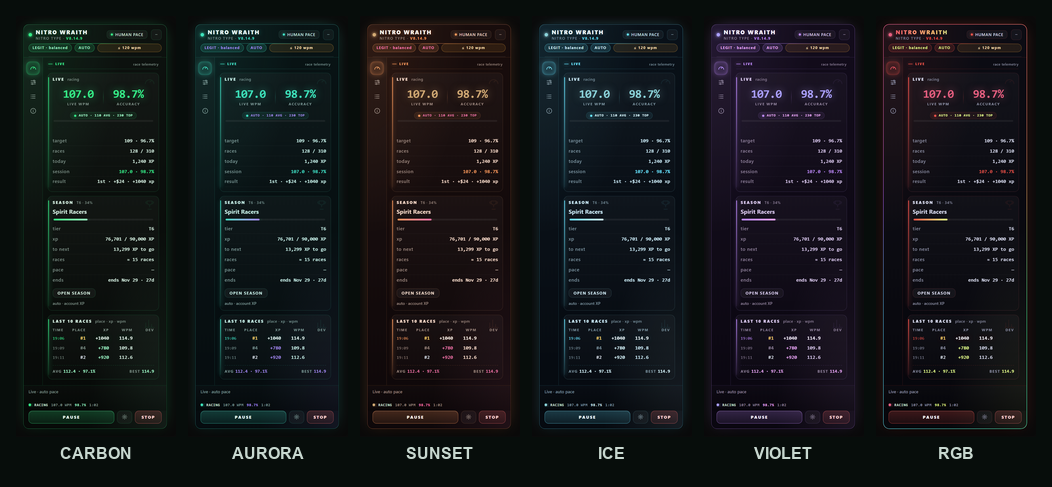
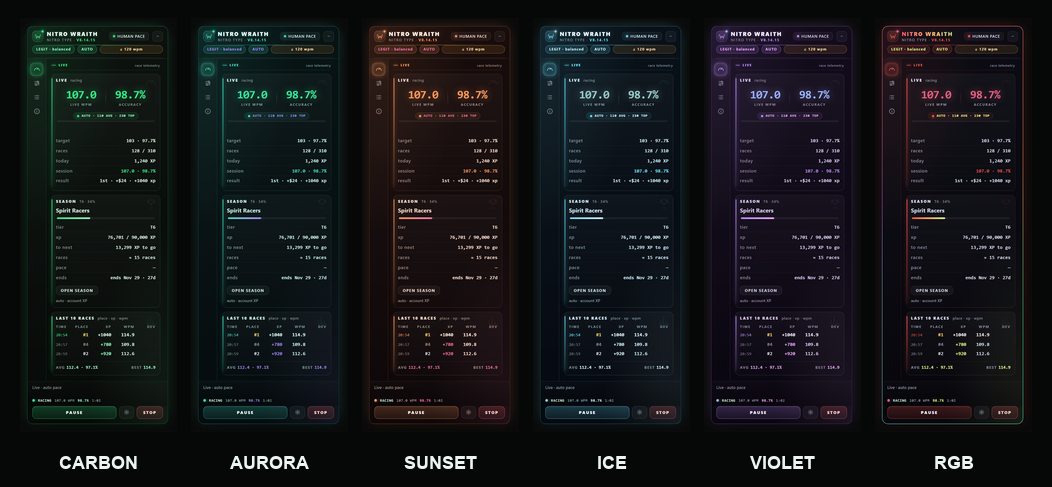
feat: give NITRO WRAITH its own mark
Use the existing hero W as an inline SVG in the live panel and the garage so the brand is recognisable without another network asset. Keep the state LED readable in the corner, replace the third-party userscript icon, and document that account tokens stay on Nitro Type.

diff --git a/nitro-wraith.user.js b/nitro-wraith.user.js
@@ -1,7 +1,7 @@
 // ==UserScript==
 // @name         NITRO WRAITH
 // @namespace    nitro.wraith
-// @version      8.14.14
+// @version      8.14.15
 // @updateURL    https://gist.githubusercontent.com/ezurinho/88f8b25546f8bb0ea588291bab8ffa58/raw/nitro-wraith.meta.js
 // @downloadURL  https://gist.githubusercontent.com/ezurinho/88f8b25546f8bb0ea588291bab8ffa58/raw/nitro-wraith.user.js
 // @description  Human-paced Nitro Type racer for one account: auto-calibrated to the account's own WPM average and top speed under a hard 120 WPM ceiling, automatic race loop with breaks and session limits, Mystery Box, stickers, CAPTCHA/session recovery, a live four-view panel and a safety guard. Always AUTO; no fast mode.
@@ -9,7 +9,7 @@
 // @supportURL   https://github.com/ezurinho/nitro-wraith/issues
 // @author       NITRO WRAITH
 // @match        https://www.nitrotype.com/*
-// @icon         https://cdn2.steamgriddb.com/icon/2b16a44bb65751bb0ebe5d8b42644bc4/32/512x512.png
+// @icon         https://raw.githubusercontent.com/ezurinho/nitro-wraith/main/assets/logo.svg
 // @license      MIT
 // @grant        none
 // @run-at       document-idle
@@ -725,7 +725,7 @@ All of this only aims at believable statistics. It is your call and your risk.
 
   };
 
-  const VERSION = '8.14.14';
+  const VERSION = '8.14.15';
 
   // Aviso de version: el meta del Gist es publico aunque el Gist sea secreto,
   // asi que se puede leer sin token. Se guarda el ultimo resultado y se
@@ -889,6 +889,7 @@ All of this only aims at believable statistics. It is your call and your risk.
       const response = await fetch(UPDATE_META_URL, {
         cache: 'no-store',
         credentials: 'omit',
+        referrerPolicy: 'no-referrer',
         signal: controller ? controller.signal : undefined,
       });
       if (!response || !response.ok) {
@@ -8828,6 +8829,13 @@ All of this only aims at believable statistics. It is your call and your risk.
         }
         .head:active { cursor: grabbing; }
         .dot { flex: none; width: 8px; height: 8px; border-radius: 50%; background: var(--dim-2); box-shadow: 0 0 0 3px color-mix(in srgb, var(--dim-2) 14%, transparent); transition: background .25s ease, box-shadow .25s ease; }
+        /* La marca: la W del hero, en un cuadrado de cristal. El punto de estado
+           sigue dentro, asi que no se pierde el LED al cambiar el icono. */
+        .mark { position: relative; flex: none; display: grid; place-items: center; width: 25px; height: 25px; border-radius: 8px; color: var(--acc); background: linear-gradient(145deg, color-mix(in srgb, var(--acc) 13%, rgba(255, 255, 255, .04)), rgba(255, 255, 255, .015)); border: 1px solid var(--line-strong); box-shadow: inset 0 1px 0 rgba(255, 255, 255, .08), 0 0 16px -9px var(--acc); }
+        .mark svg { width: 18px; height: 18px; display: block; filter: drop-shadow(0 0 5px color-mix(in srgb, var(--acc) 55%, transparent)); }
+        .mark .dot { position: absolute; right: -2px; top: -2px; width: 5px; height: 5px; box-shadow: 0 0 0 2px var(--bg-hi), 0 0 7px color-mix(in srgb, var(--acc) 70%, transparent); }
+        .panel[data-state="running"] .mark .dot { animation: nt-pulse 1.7s ease-in-out infinite; }
+        .panel[data-collapsed="true"] .mark { width: 23px; height: 23px; border-radius: 7px; }
         .panel[data-state="running"] .dot { background: var(--acc); box-shadow: 0 0 0 3px var(--acc-dim), 0 0 12px color-mix(in srgb, var(--acc) 80%, transparent); animation: nt-pulse 1.7s ease-in-out infinite; }
         .panel[data-state="paused"] .dot { background: var(--warn); box-shadow: 0 0 0 3px color-mix(in srgb, var(--warn) 16%, transparent), 0 0 12px color-mix(in srgb, var(--warn) 60%, transparent); }
         .panel[data-state="break"] .dot { background: var(--info); box-shadow: 0 0 0 3px color-mix(in srgb, var(--info) 16%, transparent), 0 0 12px color-mix(in srgb, var(--info) 60%, transparent); }
@@ -9274,7 +9282,10 @@ All of this only aims at believable statistics. It is your call and your risk.
       </style>
       <div class="panel" role="region" aria-label="Nitro Wraith control panel" data-state="waiting" data-mode="auto" data-pace="legit" data-cfg="0" data-collapsed="false" data-tab="stats" data-fresh="1" data-theme="carbon">
         <div class="head">
-          <span class="dot"></span>
+          <span class="mark" aria-hidden="true">
+            <svg viewBox="0 0 32 32" fill="none" stroke="currentColor" stroke-width="2.4" stroke-linecap="round" stroke-linejoin="round"><circle cx="16" cy="16" r="14" stroke-opacity=".22"/><path d="M6.5 9.5 11 23l5-9 5 9 4.5-13.5"/></svg>
+            <i class="dot"></i>
+          </span>
           <span class="brand">
             <b class="title" data-field="title">NITRO WRAITH</b>
             <span class="sub">nitro type · <b data-field="ver">v7.0.0</b></span>
@@ -13809,6 +13820,15 @@ All of this only aims at believable statistics. It is your call and your risk.
           .dot { flex: none; width: 8px; height: 8px; border-radius: 50%;
                  background: var(--dim-2); box-shadow: 0 0 0 3px color-mix(in srgb, var(--dim-2) 14%, transparent);
                  transition: background .25s ease, box-shadow .25s ease; }
+          .mark { position: relative; flex: none; display: grid; place-items: center;
+                  width: 23px; height: 23px; border-radius: 7px; color: var(--acc);
+                  background: linear-gradient(145deg, color-mix(in srgb, var(--acc) 13%, rgba(255, 255, 255, .04)), rgba(255, 255, 255, .015));
+                  border: 1px solid var(--line-strong);
+                  box-shadow: inset 0 1px 0 rgba(255, 255, 255, .08), 0 0 14px -8px var(--acc); }
+          .mark svg { width: 16px; height: 16px; display: block;
+                      filter: drop-shadow(0 0 5px color-mix(in srgb, var(--acc) 55%, transparent)); }
+          .mark .dot { position: absolute; right: -2px; top: -2px; width: 5px; height: 5px;
+                       box-shadow: 0 0 0 2px var(--bg-hi), 0 0 7px color-mix(in srgb, var(--acc) 70%, transparent); }
           /* El LED dice si corre o espera; el chip ya no tiene estado OFF. */
           .p[data-armed="1"] .dot { background: var(--acc);
                  box-shadow: 0 0 0 3px var(--acc-dim), 0 0 12px color-mix(in srgb, var(--acc) 80%, transparent); }
@@ -13995,7 +14015,10 @@ All of this only aims at believable statistics. It is your call and your risk.
         </style>
         <div class="p" data-mode="auto" data-theme="${panelTheme}">
           <div class="h" title="Drag to move · double-click to put it back in the corner">
-            <i class="dot"></i>
+            <span class="mark" aria-hidden="true">
+              <svg viewBox="0 0 32 32" fill="none" stroke="currentColor" stroke-width="2.4" stroke-linecap="round" stroke-linejoin="round"><circle cx="16" cy="16" r="14" stroke-opacity=".22"/><path d="M6.5 9.5 11 23l5-9 5 9 4.5-13.5"/></svg>
+              <i class="dot"></i>
+            </span>
             <span><b class="t">NITRO WRAITH</b><span class="s" data-f="sub">garage · queue</span></span>
             <span class="mode" role="status" aria-live="polite" title="Always AUTO: it starts and re-arms by itself. To stop it, use Stop / Esc in the race.">AUTO</span>
             <button class="upd" type="button" data-f="update" hidden>update</button>

diff --git a/nitro-wraith.meta.js b/nitro-wraith.meta.js
@@ -1,7 +1,7 @@
 // ==UserScript==
 // @name         NITRO WRAITH
 // @namespace    nitro.wraith
-// @version      8.14.14
+// @version      8.14.15
 // @updateURL    https://gist.githubusercontent.com/ezurinho/88f8b25546f8bb0ea588291bab8ffa58/raw/nitro-wraith.meta.js
 // @downloadURL  https://gist.githubusercontent.com/ezurinho/88f8b25546f8bb0ea588291bab8ffa58/raw/nitro-wraith.user.js
 // @description  Human-paced Nitro Type racer for one account: auto-calibrated to the account's own WPM average and top speed under a hard 120 WPM ceiling, automatic race loop with breaks and session limits, Mystery Box, stickers, CAPTCHA/session recovery, a live four-view panel and a safety guard. Always AUTO; no fast mode.
@@ -9,7 +9,7 @@
 // @supportURL   https://github.com/ezurinho/nitro-wraith/issues
 // @author       NITRO WRAITH
 // @match        https://www.nitrotype.com/*
-// @icon         https://cdn2.steamgriddb.com/icon/2b16a44bb65751bb0ebe5d8b42644bc4/32/512x512.png
+// @icon         https://raw.githubusercontent.com/ezurinho/nitro-wraith/main/assets/logo.svg
 // @license      MIT
 // @grant        none
 // @run-at       document-idle

diff --git a/README.md b/README.md
@@ -2,7 +2,7 @@
   <img src="assets/hero.png" width="100%" alt="NITRO WRAITH — human pace, zero fast mode">
 </div>
 
-<h1 align="center">NITRO WRAITH</h1>
+<h1 align="center"><img src="assets/logo.svg" width="44" alt="" valign="middle"> NITRO WRAITH</h1>
 
 <p align="center">
   <strong>Human pace. Zero fast mode.</strong><br>
@@ -15,7 +15,7 @@
   <a href="https://gist.githubusercontent.com/ezurinho/88f8b25546f8bb0ea588291bab8ffa58/raw/nitro-wraith.user.js">
     <img src="https://img.shields.io/badge/INSTALL_USERSCRIPT-70FFAB?style=for-the-badge&logo=tampermonkey&logoColor=07100C&labelColor=0B1711" alt="Install NITRO WRAITH">
   </a>
-  <a href="https://github.com/ezurinho/nitro-wraith/releases/tag/v8.14.14">
+  <a href="https://github.com/ezurinho/nitro-wraith/releases/tag/v8.14.15">
     <img src="https://img.shields.io/github/v/release/ezurinho/nitro-wraith?style=for-the-badge&label=release&labelColor=0B1711&color=62E2D0" alt="Latest release">
   </a>
   <a href="CHANGELOG.md">
@@ -24,7 +24,7 @@
 </p>
 
 <p align="center">
-  <a href="CHANGELOG.md"><img src="https://img.shields.io/badge/version-8.14.14-5CF2A0?style=flat-square&labelColor=0B1711" alt="version"></a>
+  <a href="CHANGELOG.md"><img src="https://img.shields.io/badge/version-8.14.15-5CF2A0?style=flat-square&labelColor=0B1711" alt="version"></a>
   <a href="https://github.com/ezurinho/nitro-wraith/actions/workflows/check.yml"><img src="https://github.com/ezurinho/nitro-wraith/actions/workflows/check.yml/badge.svg?branch=main" alt="check"></a>
   <a href="LICENSE"><img src="https://img.shields.io/badge/license-MIT-62E2D0?style=flat-square&labelColor=0B1711" alt="license"></a>
   <a href="https://www.tampermonkey.net/"><img src="https://img.shields.io/badge/Tampermonkey-userscript-FFC66D?style=flat-square&labelColor=0B1711" alt="Tampermonkey"></a>
@@ -137,6 +137,12 @@ live race it forwards the key; otherwise it clears the hold and re-arms the queu
 
 The script never types credentials and never attempts a CAPTCHA. Those two remain
 manual by design.
+
+**Privacy:** there is no telemetry, analytics, or third-party logging. The
+`player_token` from the page is read only to call Nitro Type's own same-origin
+API; it is never printed, included in an exported config or diagnostic, or sent
+to another host. The only off-site request is the public Gist version check, and
+it is made with credentials omitted.
 
 ## Under the hood
 

diff --git a/CHANGELOG.md b/CHANGELOG.md
@@ -1,5 +1,10 @@
 # Changelog
 
+## 8.14.15 — 2026-11-14
+
+- feat: give the panel and garage the Nitro Wraith mark
+- privacy: replace the third-party userscript icon and omit the referrer on update checks
+
 ## 8.14.14 — 2026-11-14
 
 - perf: lazy-mount panel views and trim startup reads
